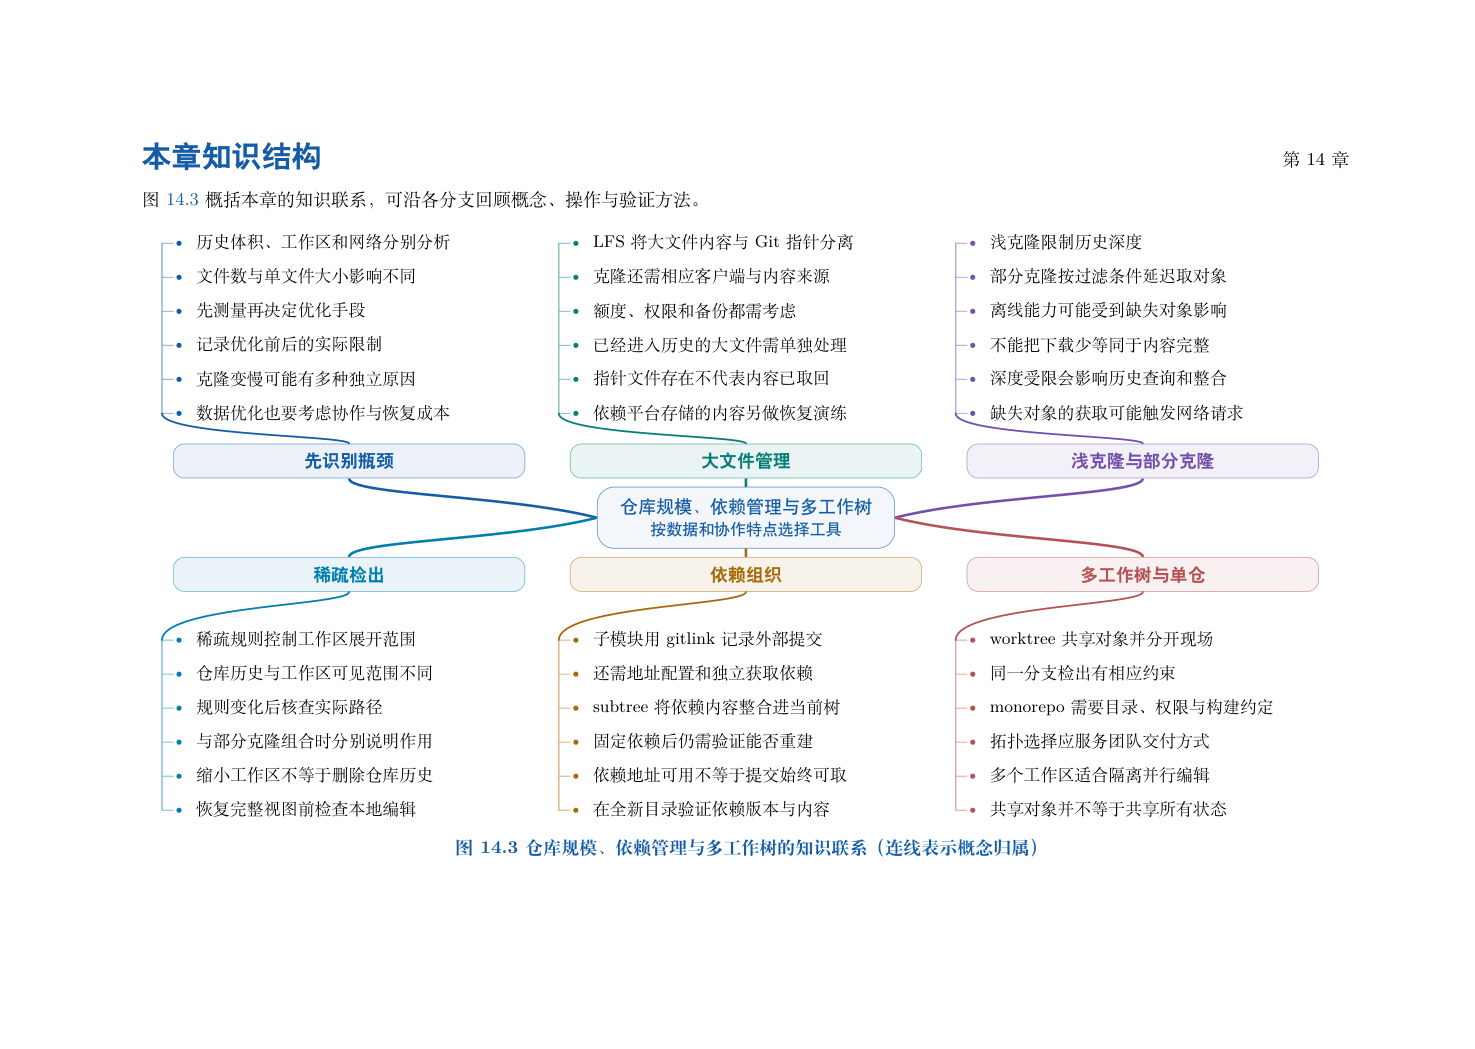
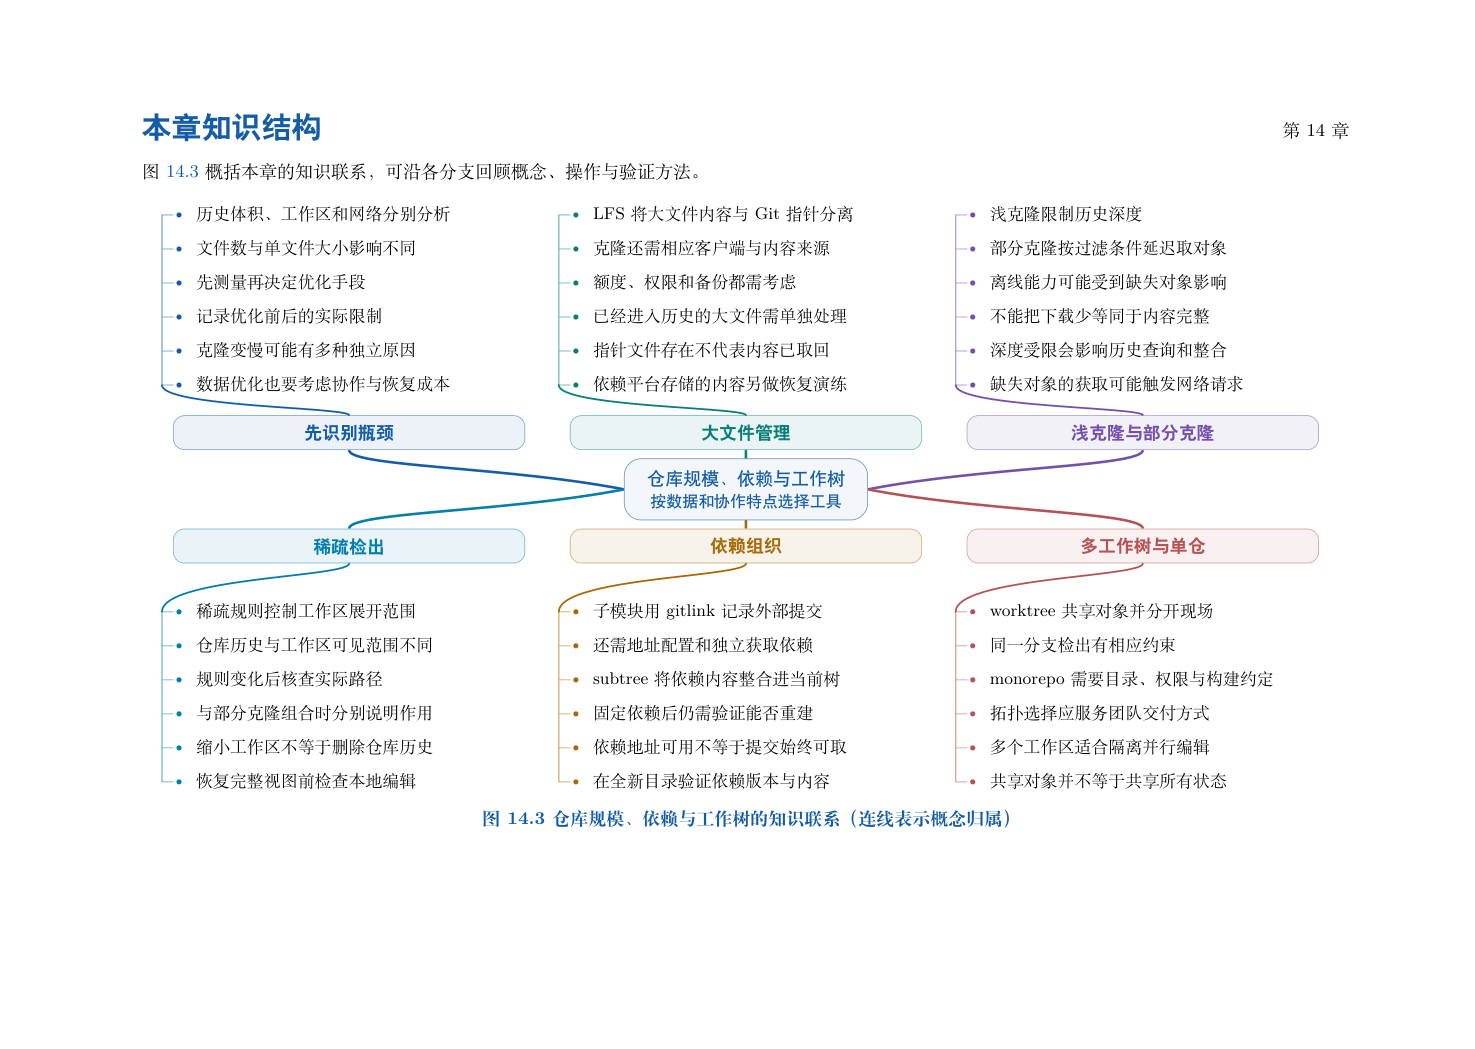
docs: align chapter naming and final revision diagrams

Changed region(s): [[0.0936, 0.0915, 0.8732, 0.8236], [0.8732, 0.122, 0.9044, 0.1525]]

diff --git a/README.md b/README.md
@@ -39,7 +39,7 @@ python3 tools/run_lab.py --all --list
 | 进阶篇 | 11 | [变基、拣选与历史整理](./chapters/ch11-变基、拣选与历史整理/README.md) | 重放、移植与补丁协作 |
 | 进阶篇 | 12 | [版本标记、签名与发布](./chapters/ch12-版本标记、签名与发布/README.md) | 版本、归档与信任 |
 | 实践篇 | 13 | [团队工作流与代码评审](./chapters/ch13-团队工作流与代码评审/README.md) | 需求、评审与合入策略 |
-| 实践篇 | 14 | [仓库规模、依赖管理与多工作树](./chapters/ch14-仓库规模、依赖管理与多工作树/README.md) | 范围、依赖与并行目录 |
+| 实践篇 | 14 | [仓库规模、依赖与工作树](./chapters/ch14-仓库规模、依赖与工作树/README.md) | 范围、依赖与并行目录 |
 | 实践篇 | 15 | [自动化、安全与备份恢复](./chapters/ch15-自动化、安全与备份恢复/README.md) | 检查对象、备份与迁移 |
 | 实践篇 | 16 | [综合项目实训](./chapters/ch16-综合项目实训/README.md) | 需求到独立交接 |
 

diff --git a/chapters/ch14-仓库规模、依赖与工作树/README.md b/chapters/ch14-仓库规模、依赖与工作树/README.md
@@ -1,4 +1,4 @@
-# 第 14 章　仓库规模、依赖管理与多工作树
+# 第 14 章　仓库规模、依赖与工作树
 
 仓库变大以后，问题并不只有“文件太多”。历史长度影响查询，对象内容影响下载，工作文件数量影响检出与扫描，依赖来源影响复现。本章把这些成本分开，再选择对应机制，避免不经测量就堆叠配置。
 

diff --git a/chapters/ch14-仓库规模、依赖与工作树/answers.md b/chapters/ch14-仓库规模、依赖与工作树/answers.md
@@ -1,4 +1,4 @@
-# 仓库规模、依赖管理与多工作树：解析要点
+# 仓库规模、依赖与工作树：解析要点
 
 稀疏、浅与部分克隆作用层次不同。工作树共享对象但保持独立现场。固定依赖提交有助复现，还需要来源可访问与目标对象已发布。
 

diff --git a/chapters/ch14-仓库规模、依赖与工作树/ch14.md b/chapters/ch14-仓库规模、依赖与工作树/ch14.md
@@ -1,4 +1,4 @@
-# 仓库规模、依赖管理与多工作树：辅导材料
+# 仓库规模、依赖与工作树：辅导材料
 
 ## 案例研读：为仓库增长选择合适方案
 ### 先测量瓶颈，再选择工具

diff --git a/chapters/ch14-仓库规模、依赖与工作树/exercises.md b/chapters/ch14-仓库规模、依赖与工作树/exercises.md
@@ -1,4 +1,4 @@
-# 仓库规模、依赖管理与多工作树：练习
+# 仓库规模、依赖与工作树：练习
 
 ## 任务 1
 
